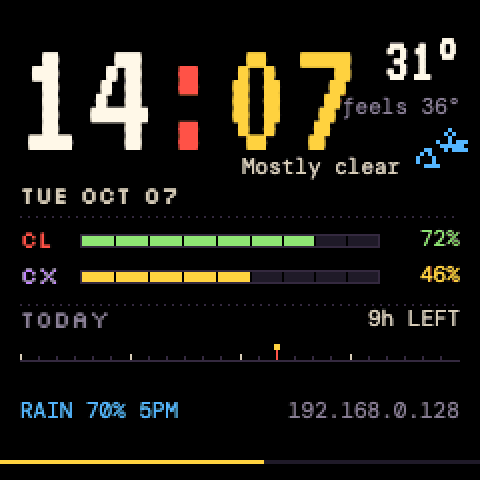
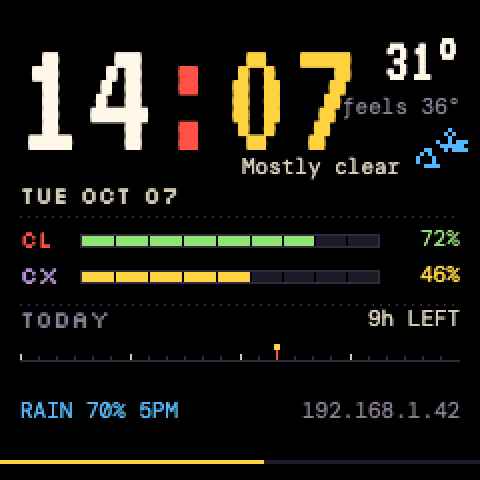
fix(agents): mask credentials in hook payloads; neutral IP in images
The hook script forwards a command excerpt and the agent's last message to
the desk display; anything credential-shaped (key=/token:/password=,
Authorization headers, sk-/JWT/ghp_/xox/AKIA values) is now replaced with
*** before it leaves the machine. Doc images use an example LAN address.

Changed region(s): [[0.5938, 0.8125, 0.9688, 0.875], [0.375, 0.1875, 0.4062, 0.2188]]

diff --git a/docs/AGENTS-GLIMMER.md b/docs/AGENTS-GLIMMER.md
@@ -136,6 +136,11 @@ ignored). The script needs `curl` + `jq`, reads `GLIMMER_URL` /
 `GLIMMER_TOKEN`, gives up after 2 s and always exits 0; `/hook` always
 answers 200, so the display can never block or decide anything.
 
+Because the command and message end up on a desk screen, the script masks
+anything credential-shaped before sending: `key=…`, `token: …`,
+`--password=…`, `Authorization: Bearer …` and bare `sk-…`, `eyJ…` (JWT),
+`ghp_…`, `xox…-`, `AKIA…` values all become `***`.
+
 | event | card |
 |---|---|
 | Claude `Notification` `permission_prompt` / Codex `PermissionRequest` | **approval** — tool as the big word, command below, `NEEDS YOU · 2M` |
